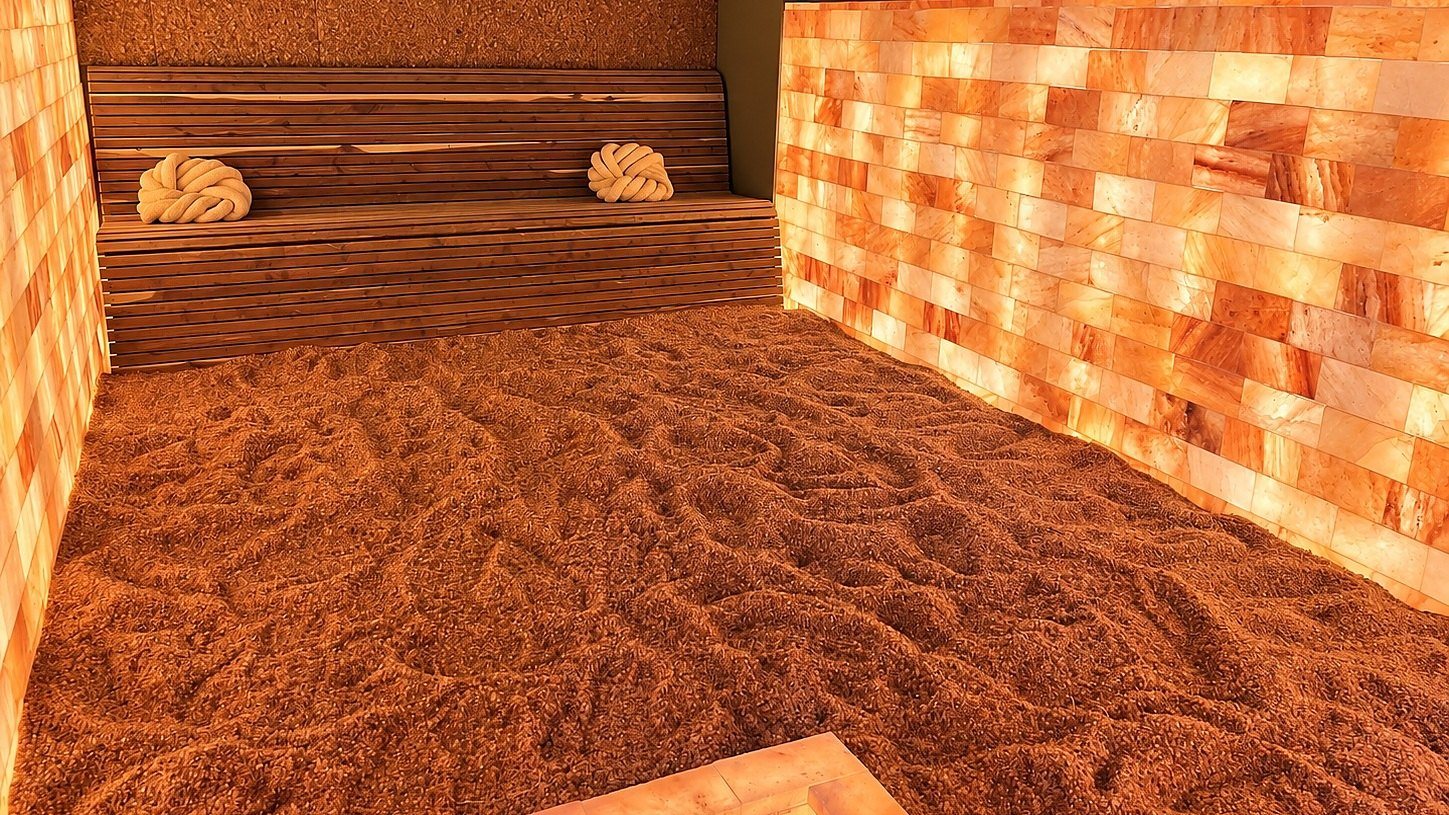
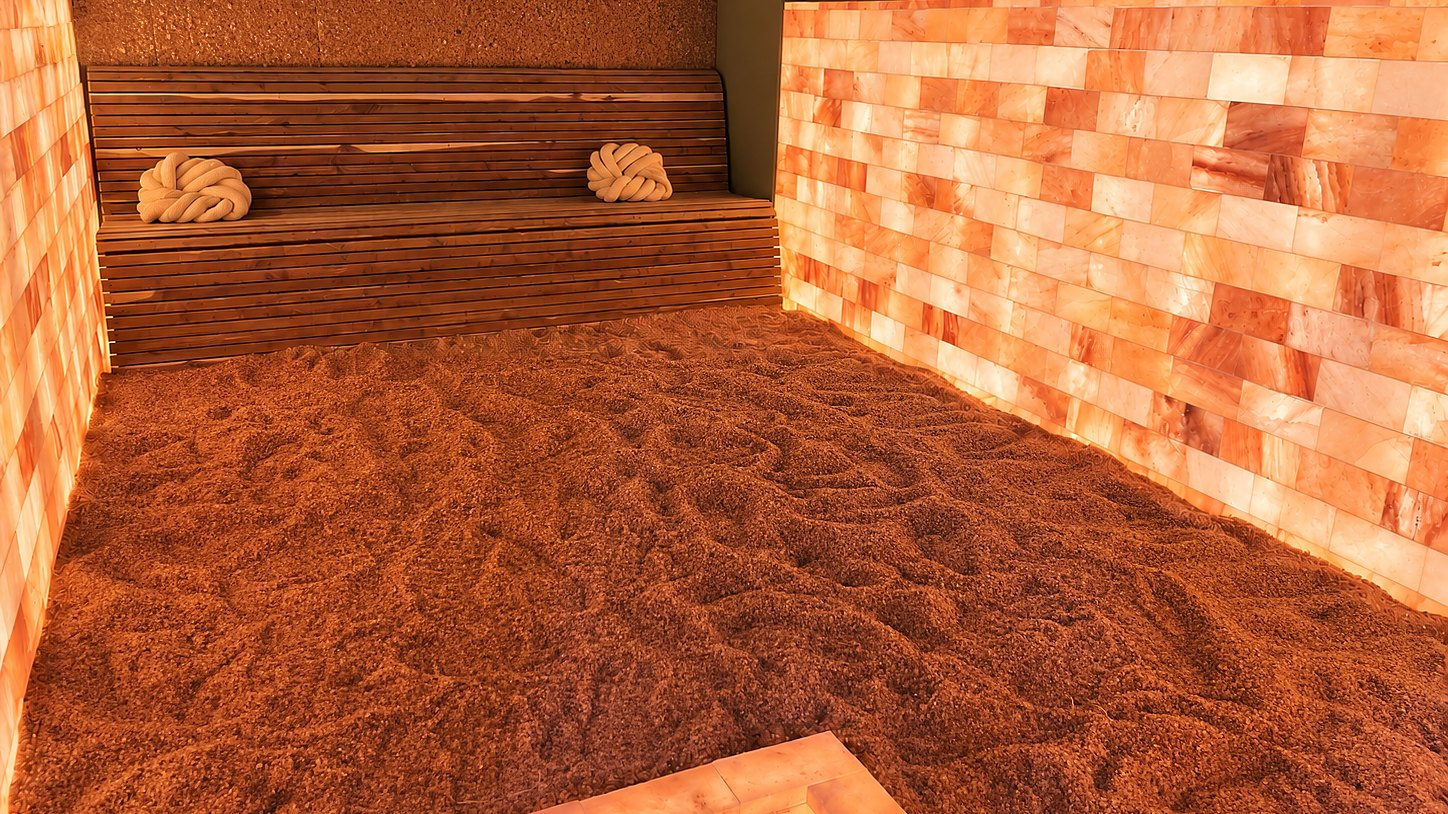
GHW salt room: pillar shadows removed, real panel and floor texture kept

diff --git a/preview/ghw-2po9/salt-room.html b/preview/ghw-2po9/salt-room.html
@@ -9,7 +9,7 @@
 <meta property="og:title" content="The salt room | Gentle Hour Wellness">
 <meta property="og:description" content="45 quiet minutes in a warm-lit salt room in Statesboro, GA. $70 for one.">
 <meta property="og:type" content="website">
-<meta property="og:image" content="img/salt-room.jpg?v=2">
+<meta property="og:image" content="img/salt-room.jpg?v=3">
 <meta name="twitter:card" content="summary_large_image">
 <meta name="theme-color" content="#0e100f">
 <link rel="icon" href="img/favicon.png" type="image/png">
@@ -64,7 +64,7 @@
         <div class="proof"><span><b>45 min</b> sessions</span><span><b>$70</b> for one</span><span><b>Fully</b> clothed</span></div>
       </div>
       <div class="salt-photo">
-        <div class="chero-photo"><img src="img/salt-room.jpg?v=2" alt="The Gentle Hour Wellness salt room: glowing Himalayan salt brick walls, a cedar bench and a floor of loose salt" width="1449" height="815" style="object-position:78% 50%"></div>
+        <div class="chero-photo"><img src="img/salt-room.jpg?v=3" alt="The Gentle Hour Wellness salt room: glowing Himalayan salt brick walls, a cedar bench and a floor of loose salt" width="1448" height="814" style="object-position:78% 50%"></div>
       </div>
     </div>
   </section>

diff --git a/preview/ghw-2po9/index.html b/preview/ghw-2po9/index.html
@@ -124,7 +124,7 @@
     <div class="wrap salt-grid">
       <div class="salt-photo">
         <!-- Real salt room photo from the 2026-09-28 shoot. -->
-        <div class="salt-frame wipe"><img src="img/salt-room.jpg?v=2" alt="The Gentle Hour Wellness salt room: glowing Himalayan salt brick walls, a cedar bench and a floor of loose salt" width="1449" height="815" style="object-position:78% 50%" loading="lazy"></div>
+        <div class="salt-frame wipe"><img src="img/salt-room.jpg?v=3" alt="The Gentle Hour Wellness salt room: glowing Himalayan salt brick walls, a cedar bench and a floor of loose salt" width="1448" height="814" style="object-position:78% 50%" loading="lazy"></div>
       </div>
       <div>
         <h2 class="h2 reveal">A salt room in Statesboro</h2>
